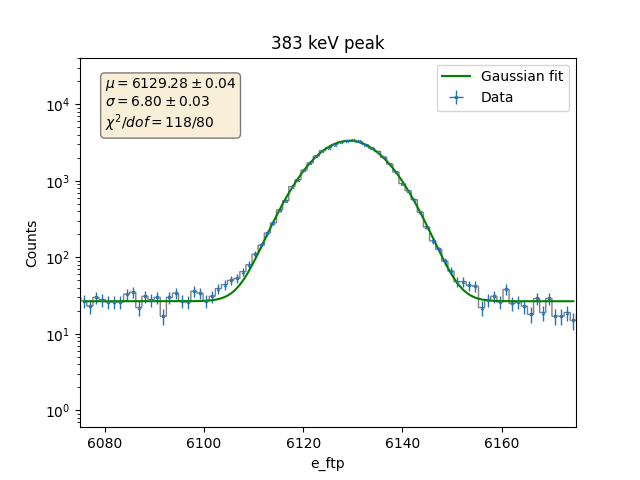
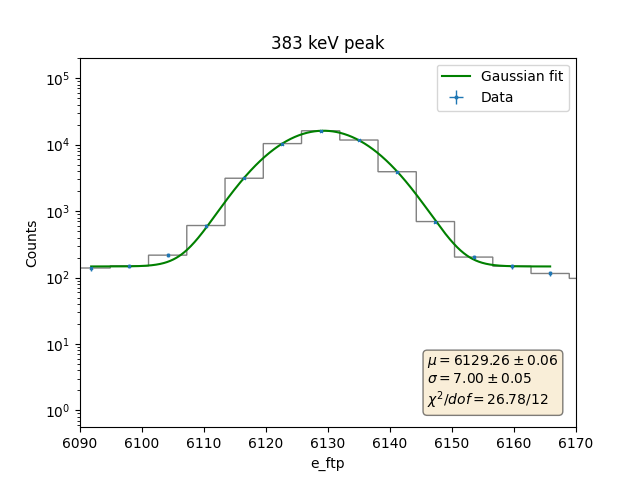
calibration completed

diff --git a/Ba133_analysis/Ba133_Calibration.py b/Ba133_analysis/Ba133_Calibration.py
@@ -25,7 +25,7 @@ def main():
     key = "e_ftp"
     key_data = obtain_key_data(data, keys, key, no_events)
 
-    no_bins = 10000 #7722
+    no_bins = 50000
 
     plt.figure()
     counts, bins, bars = plt.hist(key_data, bins=no_bins)
@@ -40,20 +40,18 @@ def main():
     plt.yscale("log")
     plt.xlabel("e_ftp")
     plt.ylabel("Counts")
-    plt.xlim(0, 7000) 
+    plt.xlim(0, 7000)
     plt.savefig("/lfs/l1/legend/users/aalexander/HADES_detchar/Ba133_analysis/plots/e_ftp_zoom.png")
 
 
     #___________Calibration__________
     print("Calibrating...")
 
-    print("Calibration peaks:")
-
     #Fit known calibration peaks from: 
     #https://www.ezag.com/fileadmin/ezag/user-uploads/isotopes/isotopes/Isotrak/isotrak-pdf/Decay_Schema_Data/Ba-133.pdf
 
     truth_energies = np.array([81.0, 276.40,302.85,356.02,383.85]) #keV
-    peak_lims_guess = [[1275, 1315], [4380, 4450], [4805,4870], [5645,5725], [6090,6170]] #rough guess on peak window
+    peak_lims_guess = [[1280, 1305], [4380, 4450], [4805,4870], [5645,5725], [6090,6170]] #rough guess on peak window
 
     mu_peaks = []
     sigma_peaks = []
@@ -123,42 +121,29 @@ def main():
     with open("calibration_coef.json", "w") as outfile: 
         json.dump(calibration_coef_dict, outfile)
 
-    #Linearly calibrated data:
-    print("")
-    print("Linearly calibrate energy...")
+    # #Linearly calibrated data:
+    # print("")
+    # print("Linearly calibrate energy...")
 
-    calibrated_energy = (key_data-c)/m
+    # #bin_width = 0.5 #0.5 kev = resolution
 
-    bin_width = 0.5 #0.5 kev = resolution
-    no_bins_ideal = int(max(calibrated_energy/bin_width))
-    #print("ideal no bins: ", no_bins_ideal) #=7722
+    # calibrated_energy = (key_data-c)/m
+    # plt.figure()
+    # counts, bins_cal, bars = plt.hist(calibrated_energy, bins=no_bins)
+    # plt.xlabel("Energy (KeV)")
+    # plt.ylabel("Frequency")
+    # plt.xlim(0, 2500)
+    # plt.yscale("log")
+    # plt.savefig("/lfs/l1/legend/users/aalexander/HADES_detchar/Ba133_analysis/plots/calibrated_energy.png") 
 
-    plt.figure()
-    counts, bins_cal, bars = plt.hist(calibrated_energy, bins=no_bins)
-    plt.xlabel("Energy (KeV)")
-    plt.ylabel("Frequency")
-    plt.xlim(0, 2500)
-    plt.yscale("log")
-    plt.savefig("/lfs/l1/legend/users/aalexander/HADES_detchar/Ba133_analysis/plots/calibrated_energy.png") 
-
-    #plot zoomed in
-    plt.figure()
-    ounts, bins_cal, bars = plt.hist(calibrated_energy, bins=100000)
-    plt.xlabel("Energy (KeV)")
-    plt.ylabel("Frequency")
-    plt.yscale("log")
-    plt.xlim(0,450)
-    plt.savefig("/lfs/l1/legend/users/aalexander/HADES_detchar/Ba133_analysis/plots/calibrated_energy_zoom.png") 
-    
-    #__________CALIBRATED___________
-
-
-
-
-    # #Calibrate - use linear calibration coefficients from previous work
-    # m, m_err = 15.786, 0.007
-    # c, c_err = -387.802, 11.591
-
+    # #plot zoomed in
+    # plt.figure()
+    # ounts, bins_cal, bars = plt.hist(calibrated_energy, bins=100000)
+    # plt.xlabel("Energy (KeV)")
+    # plt.ylabel("Frequency")
+    # plt.yscale("log")
+    # plt.xlim(0,450)
+    # plt.savefig("/lfs/l1/legend/users/aalexander/HADES_detchar/Ba133_analysis/plots/calibrated_energy_zoom.png") 
 
 
 def read_all_t2(t2_folder):
@@ -199,11 +184,6 @@ def gaussian(x,a,b,c,d):
     "gaussian function with offset d"
     f = a*np.exp(-((x-b)**2.0/(2.0*c**2.0))) +d
     return f
-
-# def gaussian_cdf_bkg(x,a,b,c,d):
-
-#     gaussian = a*np.exp(-((x-b)**2.0/(2.0*c**2.0))) +d
-#     cdf_bkg = 
 
 def linear_fit(x, m, c):
     "linear function"
@@ -357,7 +337,7 @@ def calibration(data, data_err, truth, fittype):
         plt.legend(loc = 4)
 
         chi_sq, p_value, residuals, dof = chi_sq_calc(xdata, ydata, yerr, "quadratic", popt)
-
+        
         props = dict(boxstyle='round', facecolor='wheat', alpha=0.5)
         info_str = '\n'.join((r'$a = %.3g \pm %.3g$' % (a, a_err, ), r'$b = %.3f \pm %.3f$' % (b, b_err,), r'$c = %.3f \pm %.3f$' % (c, c_err,),  r'$\chi^2/dof=%.0f/%.0f$'%(chi_sq, dof))) #, r'$p = %.3g$'%(p_value)))
         ax.text(0.05, 0.95, info_str, transform=ax.transAxes, fontsize=10,verticalalignment='top', bbox=props)

diff --git a/Ba133_analysis/Ba133_dlt_analysis.py b/Ba133_analysis/Ba133_dlt_analysis.py
@@ -25,7 +25,7 @@ def main():
     key = "e_ftp"
     key_data = obtain_key_data(data, keys, key, no_events)
 
-    no_bins = 10000 #7722
+    no_bins = 50000
 
     plt.figure()
     counts, bins, bars = plt.hist(key_data, bins=no_bins)
@@ -40,20 +40,18 @@ def main():
     plt.yscale("log")
     plt.xlabel("e_ftp")
     plt.ylabel("Counts")
-    plt.xlim(0, 7000) 
+    plt.xlim(0, 7000)
     plt.savefig("/lfs/l1/legend/users/aalexander/HADES_detchar/Ba133_analysis/plots/e_ftp_zoom.png")
 
 
     #___________Calibration__________
     print("Calibrating...")
 
-    print("Calibration peaks:")
-
     #Fit known calibration peaks from: 
     #https://www.ezag.com/fileadmin/ezag/user-uploads/isotopes/isotopes/Isotrak/isotrak-pdf/Decay_Schema_Data/Ba-133.pdf
 
     truth_energies = np.array([81.0, 276.40,302.85,356.02,383.85]) #keV
-    peak_lims_guess = [[1275, 1315], [4380, 4450], [4805,4870], [5645,5725], [6090,6170]] #rough guess on peak window
+    peak_lims_guess = [[1280, 1305], [4380, 4450], [4805,4870], [5645,5725], [6090,6170]] #rough guess on peak window
 
     mu_peaks = []
     sigma_peaks = []
@@ -127,12 +125,9 @@ def main():
     print("")
     print("Linearly calibrate energy...")
 
+    #bin_width = 0.5 #0.5 kev = resolution
+
     calibrated_energy = (key_data-c)/m
-
-    bin_width = 0.5 #0.5 kev = resolution
-    no_bins_ideal = int(max(calibrated_energy/bin_width))
-    #print("ideal no bins: ", no_bins_ideal) #=7722
-
     plt.figure()
     counts, bins_cal, bars = plt.hist(calibrated_energy, bins=no_bins)
     plt.xlabel("Energy (KeV)")
@@ -357,7 +352,7 @@ def calibration(data, data_err, truth, fittype):
         plt.legend(loc = 4)
 
         chi_sq, p_value, residuals, dof = chi_sq_calc(xdata, ydata, yerr, "quadratic", popt)
-
+        
         props = dict(boxstyle='round', facecolor='wheat', alpha=0.5)
         info_str = '\n'.join((r'$a = %.3g \pm %.3g$' % (a, a_err, ), r'$b = %.3f \pm %.3f$' % (b, b_err,), r'$c = %.3f \pm %.3f$' % (c, c_err,),  r'$\chi^2/dof=%.0f/%.0f$'%(chi_sq, dof))) #, r'$p = %.3g$'%(p_value)))
         ax.text(0.05, 0.95, info_str, transform=ax.transAxes, fontsize=10,verticalalignment='top', bbox=props)
